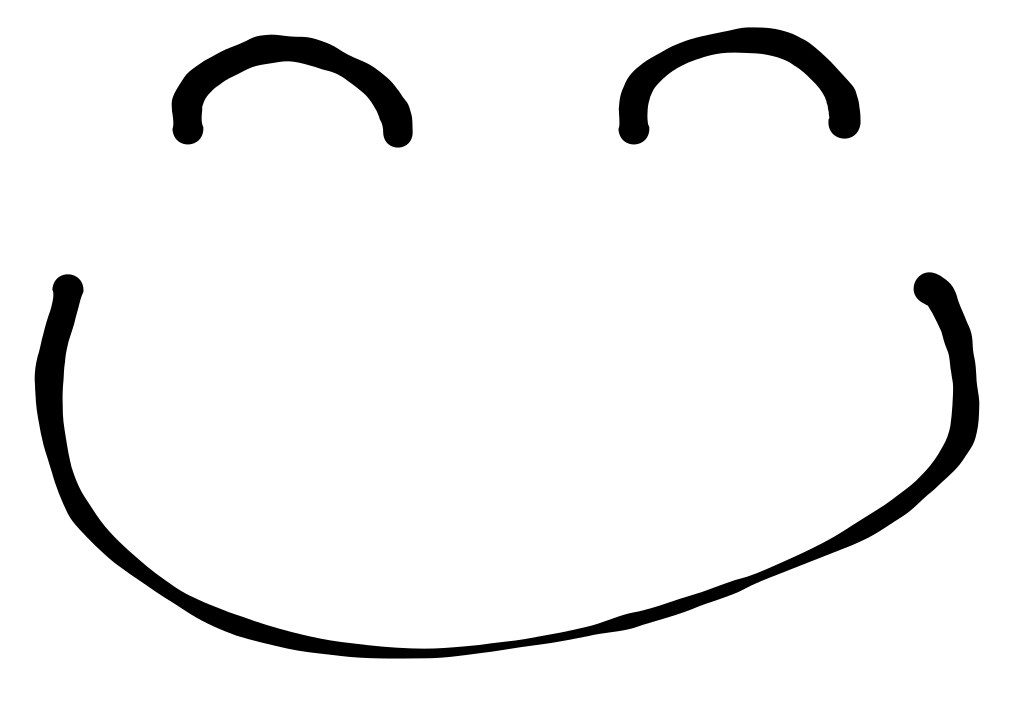
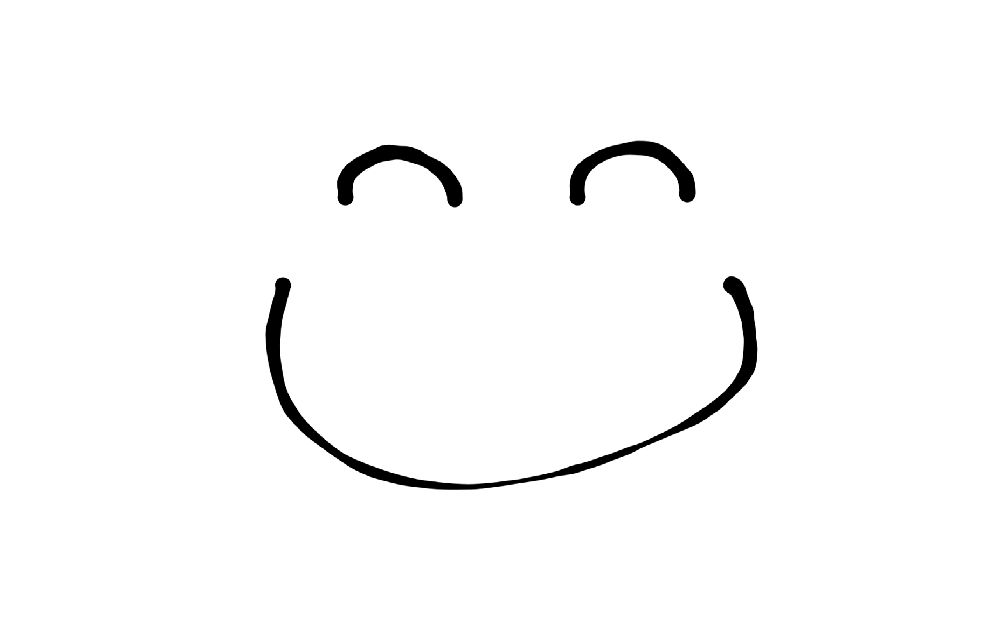
SDF + dijkstra stroke gen

diff --git a/calligraphy_printer/stroke_planner.py b/calligraphy_printer/stroke_planner.py
@@ -51,7 +51,6 @@ def generate_best_run_from_start(graph, component, start_node):
     adjacency_dict = dict(graph.adjacency())
     graph_pos_dict = nx.get_node_attributes(graph, "pos")
 
-    print("Starting")
     while len(unexpanded_nodes) > 0:
         # Grab the lowest-cost unexpanded node.
         update_node = min(
@@ -96,7 +95,7 @@ def generate_best_run_from_start(graph, component, start_node):
     def sorting_function(x):
         node, path_length = x
         cost = min_cost_at_nodes[node]
-        return cost - path_length * 0.1
+        return cost - path_length * 0.5
 
     # Find node that terminates longest run
     best_run = []
@@ -126,7 +125,7 @@ def convert_masked_sd_to_strokes(masked_sd: np.ndarray, point_spacing: int = 5):
     # Use Open3D for downsampling. Pack the SD into the z dim so it gets carried through.
     pcd = open3d.geometry.PointCloud()
     pcd.points = open3d.utility.Vector3dVector(
-        np.c_[nonzeros, -masked_sd[nonzeros[:, 0], nonzeros[:, 1]]]
+        np.c_[nonzeros, masked_sd[nonzeros[:, 0], nonzeros[:, 1]]]
     )
     pcd = pcd.voxel_down_sample(voxel_size=point_spacing)
     downsampled_pts = np.asarray(pcd.points)
@@ -154,7 +153,10 @@ def convert_masked_sd_to_strokes(masked_sd: np.ndarray, point_spacing: int = 5):
     connected_components = list(nx.connected_components(graph))
     runs = []
     for component in connected_components:
-        runs += generate_best_runs_for_component(graph, component)
+        #runs += generate_best_runs_for_component(graph, component)
+        runs.append(
+            max(generate_best_runs_for_component(graph, component), key=lambda x: len(x))
+        )
 
     # Finally, convert each run into a 3xN array of [x, y, size].
     graph_pos_dict = nx.get_node_attributes(graph, "pos")
@@ -169,14 +171,14 @@ def convert_masked_sd_to_strokes(masked_sd: np.ndarray, point_spacing: int = 5):
 
 
 if __name__ == "__main__":
-    img_bgr = cv2.imread("eye.png")
+    img_bgr = cv2.imread("eevee.png")
     img_gray = cv2.cvtColor(img_bgr, cv2.COLOR_BGR2GRAY) 
     
     
     brush_width = 10.0
 
     start_time = time.time()
-    masked_sd = get_brush_stroke_masked_sd(img_gray, threshold=0.5, brush_width=10.0)
+    masked_sd = get_brush_stroke_masked_sd(img_gray, threshold=0.5, brush_width=brush_width)
     sd_time = time.time()
     strokes = convert_masked_sd_to_strokes(masked_sd, point_spacing=5)
     strokes_time = time.time()
@@ -188,6 +190,7 @@ if __name__ == "__main__":
     plt.imshow(img_gray)
     plt.subplot(3, 1, 2)
     plt.imshow(masked_sd)
+    plt.colorbar()
     plt.subplot(3, 1, 3)
     
     print([x.shape[1] for x in strokes])

diff --git a/calligraphy_printer/grbl_gcode_streamer.py b/calligraphy_printer/grbl_gcode_streamer.py
@@ -47,6 +47,7 @@ class GRBLGCodeStreamer:
         self.send_line_count = 0
         self.acknowledged_line_count = 0
         self.sent_command_buffer = []
+        self.xyz = np.full(3, np.inf)
 
         LOG.info("Initialization Grbl...")
         self.ser.write(str.encode(str(chr(24)) + "\r\n"))
